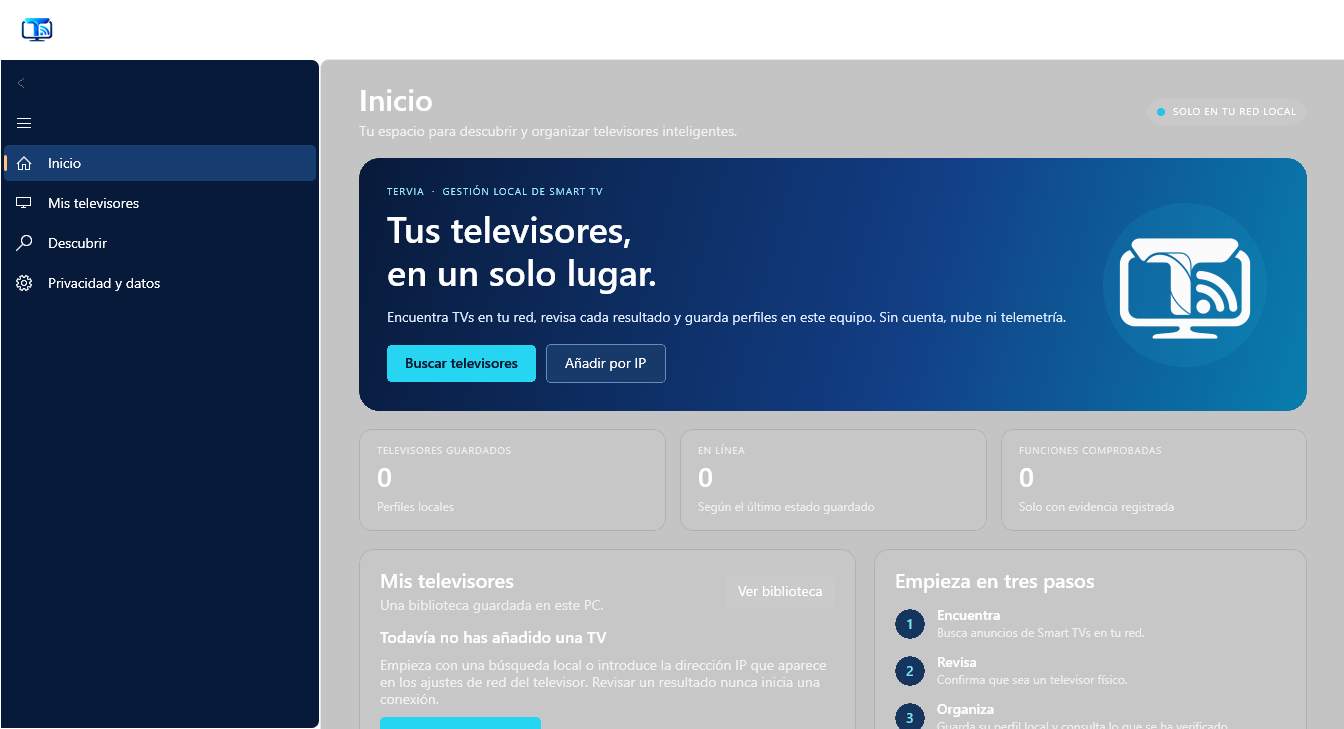
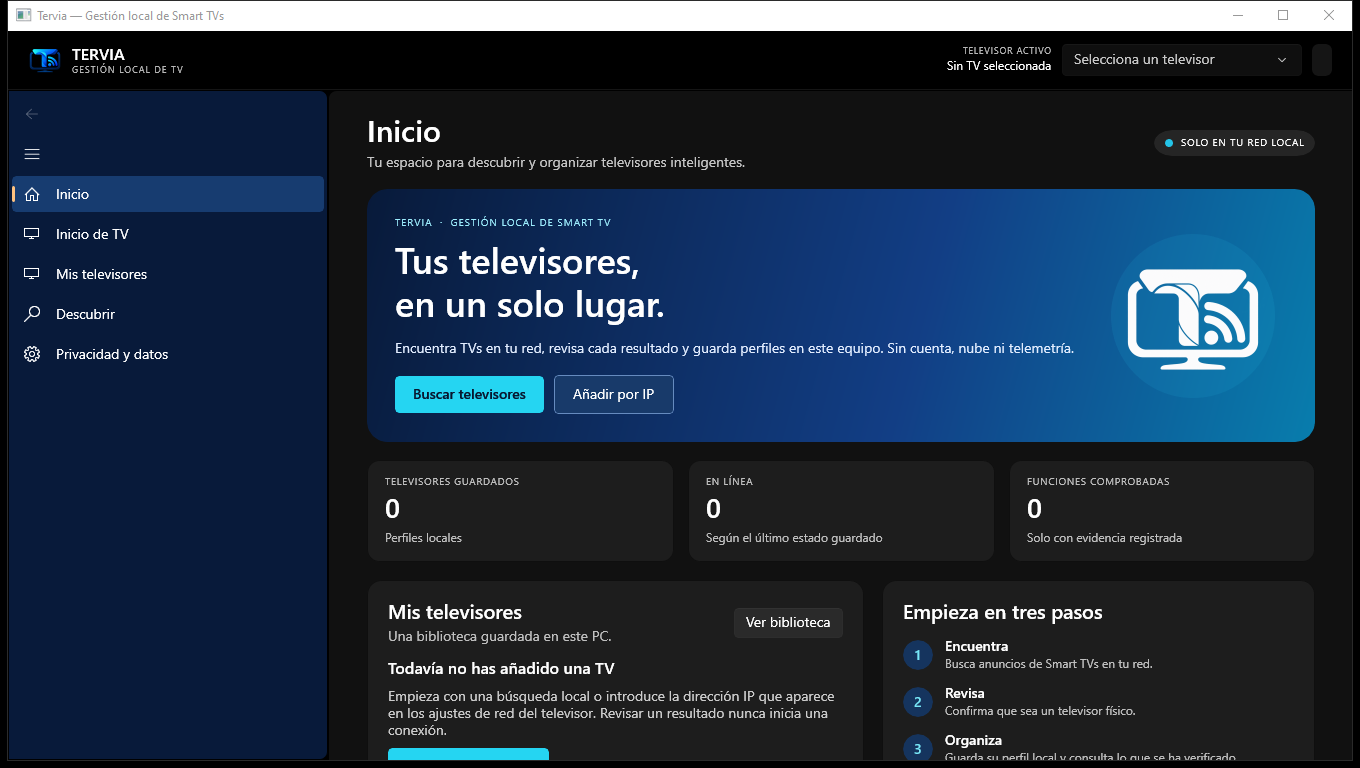
Refresh README screenshots and Home preview layout

diff --git a/src/Tervia.App/Pages/HomePage.xaml b/src/Tervia.App/Pages/HomePage.xaml
@@ -23,8 +23,8 @@
                     Background="#141D2B" BorderBrush="#28364A" BorderThickness="1">
                 <Grid ColumnSpacing="24">
                     <Grid.ColumnDefinitions>
-                        <ColumnDefinition Width="1.15*" />
-                        <ColumnDefinition Width="0.85*" />
+                        <ColumnDefinition Width="1*" />
+                        <ColumnDefinition Width="1*" />
                     </Grid.ColumnDefinitions>
                     <StackPanel Spacing="14">
                         <StackPanel Spacing="4">

diff --git a/README.md b/README.md
@@ -36,24 +36,25 @@ claridad qué funciones están implementadas y cuáles siguen pendientes.
 > El flujo está compilado y probado automáticamente; aún no se ha validado en modelos de
 > TV físicos, así que la compatibilidad depende del fabricante y firmware.
 
-## Así se ve la aplicación
+## Capturas de pantalla
 
-Estas imágenes se capturan de la aplicación Tervia ejecutándose en Windows. Son
-pantallas de la aplicación de escritorio; **no son capturas de una televisión**.
-La captura real por ADB está disponible bajo demanda para TVs Android compatibles,
-pero todavía no hay modelos validados en hardware.
+Capturas reales de **Tervia 0.2.0-alpha** ejecutándose en Windows, a 1360 × 768.
+Muestran la aplicación de escritorio; **no son imágenes de la pantalla de una TV**.
+Se tomaron sin una TV seleccionada, por eso el editor muestra las aplicaciones de
+ejemplo y mantiene deshabilitadas las acciones que necesitan una conexión.
 
-| Escritorio: resumen | Escritorio: descubrimiento |
+| Inicio | Inicio de TV |
 | --- | --- |
-| ![Pantalla Inicio de Tervia para Windows](assets/screenshots/home.png) | ![Pantalla de descubrimiento local de Tervia](assets/screenshots/discovery.png) |
+| ![Resumen de Tervia para Windows](assets/screenshots/home.png) | ![Editor de Tervia Home con vista previa](assets/screenshots/tv-home.png) |
 
-| Escritorio: privacidad |
-| --- |
-| ![Pantalla de privacidad de Tervia](assets/screenshots/privacy.png) |
+| Descubrir | Privacidad y datos |
+| --- | --- |
+| ![Descubrimiento local SSDP y mDNS](assets/screenshots/discovery.png) | ![Datos locales y privacidad de Tervia](assets/screenshots/privacy.png) |
 
-La vista previa del inicio que se personaliza desde Windows aparece en la sección
-**Inicio de TV**. La imagen de escritorio es una vista previa orientativa; la TV carga
-sus propios iconos y aplicaciones.
+La vista previa de **Inicio de TV** representa el diseño que puedes configurar desde
+Windows. En una TV compatible, Tervia Home carga sus propias aplicaciones e iconos.
+La captura de pantalla de la TV se obtiene por ADB bajo demanda; la compatibilidad
+física aún depende del modelo y firmware.
 
 ## Descargar y empezar
 

diff --git a/assets/screenshots/README.md b/assets/screenshots/README.md
@@ -1,9 +1,12 @@
 # Capturas de pantalla
 
-El README incrusta capturas reales de la aplicación WinUI ejecutándose en un escritorio
-Windows. No se han retocado ni recreado como mockups. El tema es el que tenía Windows al
-tomar cada captura.
+Las imágenes del README son capturas directas de Tervia 0.2.0-alpha en Windows, a
+1360 × 768. Muestran la ventana real de escritorio y no se han recreado como mockups.
 
-Estas capturas muestran la aplicación de escritorio; **no representan la imagen interna
-de una TV**. La captura de pantalla de televisores físicos no está implementada en esta
-alpha y no se publicarán imágenes de TV como si las hubiera producido Tervia.
+En las cuatro capturas no hay una TV seleccionada. Por eso el editor enseña tarjetas de
+ejemplo y deshabilita las acciones que requieren una TV compatible conectada. Las
+capturas representan la aplicación de Windows, no la salida de una televisión.
+
+La captura de la pantalla de una TV Android/Google/Fire TV compatible está disponible
+bajo demanda mediante ADB. No se declara compatibilidad física hasta probar cada modelo
+y firmware.
